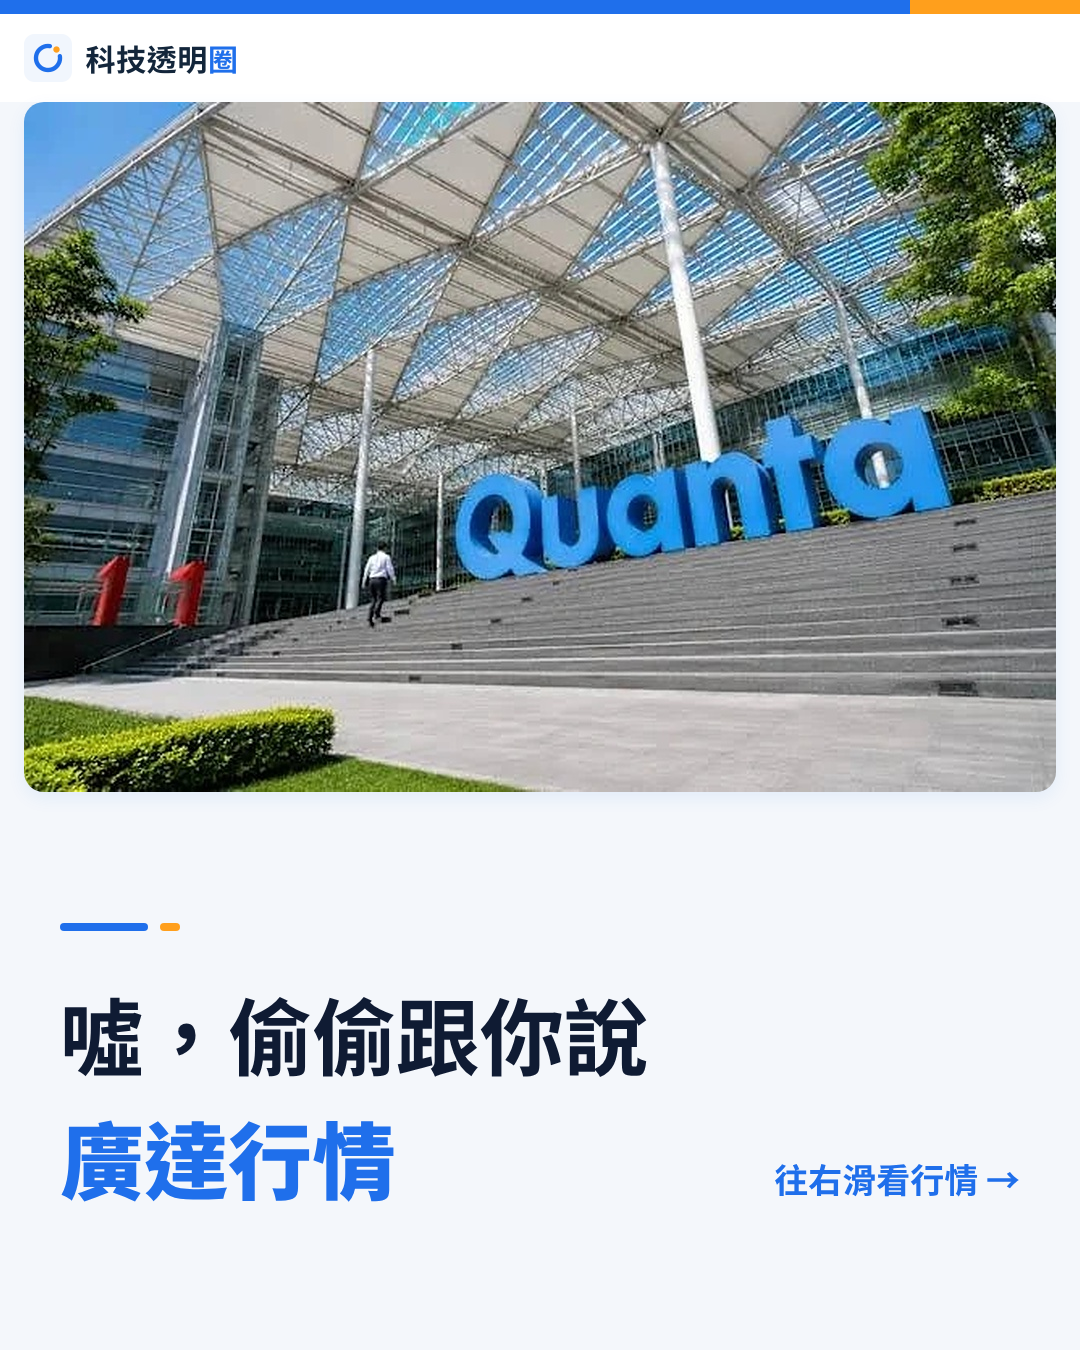
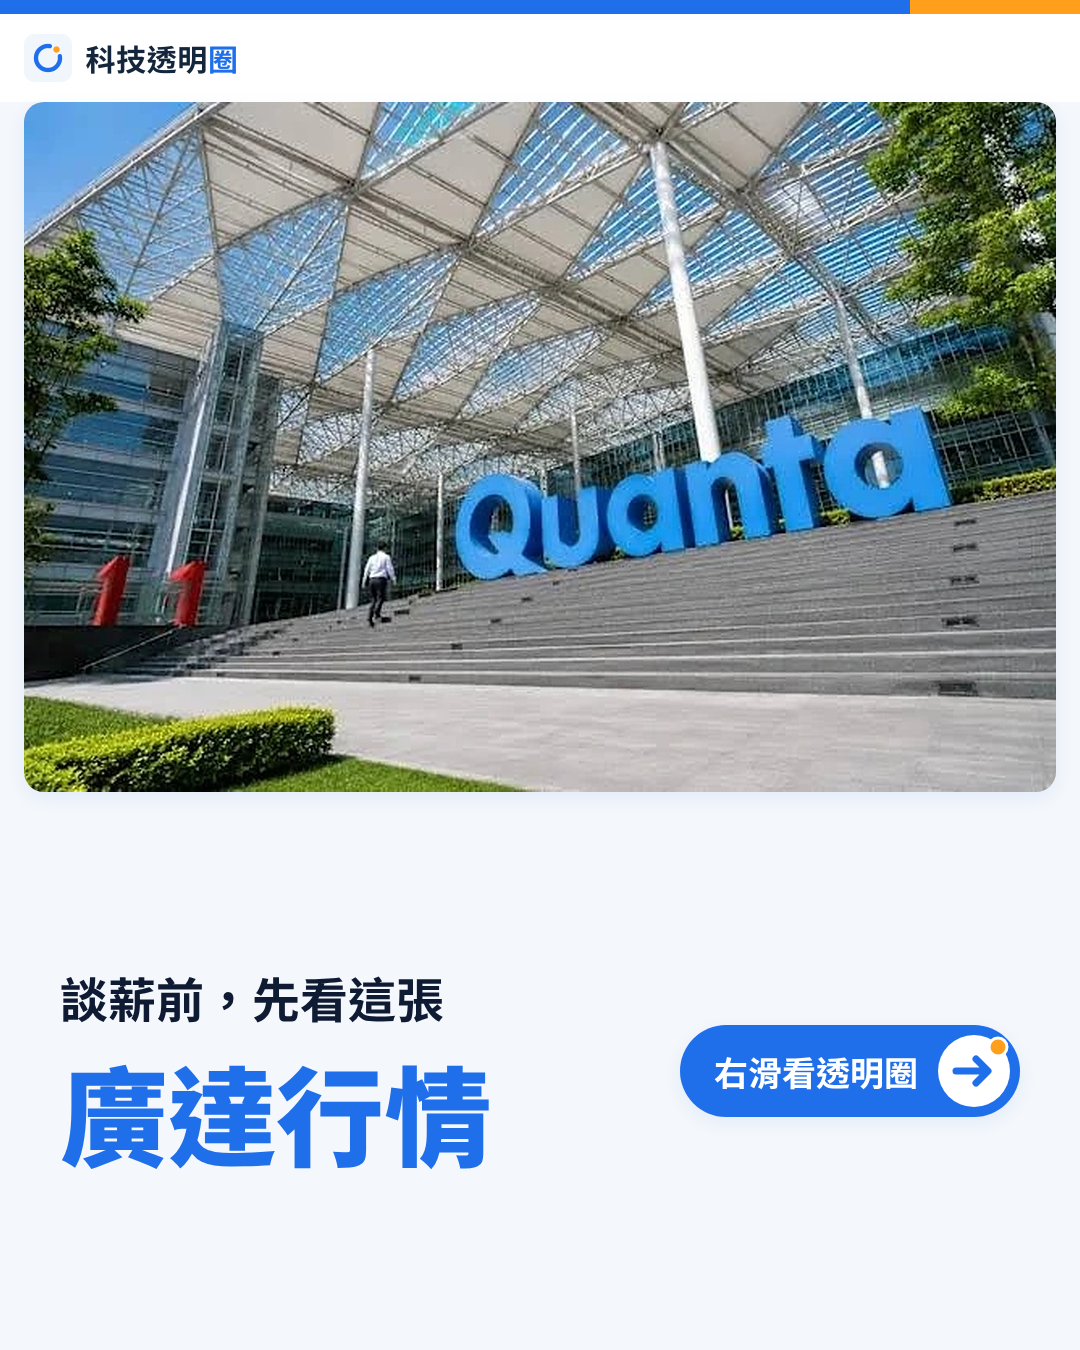
科技透明圈 廣達待遇文：封面加頻道標語＋右滑膠囊鈕、待遇表改台灣地圖＋6 欄（Andy 11-06）
Claude-Session: https://claude.ai/code/session_018gakVRNRsek4G6osuECGNS

Changed region(s): [[0.0611, 0.6844, 0.9472, 0.9022]]

diff --git a/docs/marketing/channels/tc/posts/20261105_quanta/render_quanta.py b/docs/marketing/channels/tc/posts/20261105_quanta/render_quanta.py
@@ -137,35 +137,68 @@ def cover(title, sub, hint, photo, pos="50% 50%"):
 PH = lambda t: f'<span class="ph">{t}</span>'
 DISC = "網友回報，非公司公告・與各公司無合作或授權關係"
 
-# ================= 廣達待遇文（2 頁）：A1 封面＋A2 待遇欄位表 =================
+# ================= 廣達待遇文（2 頁）：A1 封面＋A2 台灣地圖＋待遇表 =================
 NAME = "廣達"
+TAGLINE = os.environ.get("TC_TAGLINE") or "談薪前，先看這張"          # 頻道標語（暫定；Andy 還沒定稿，換字只改這一處，7～10 字都單行）
+COVER_HINT = "右滑看透明圈"
+SECTION_TITLE = "工程師待遇"          # 欄位標題；若文章是特定單位，寫成「廣達 BU9 透明圈」
+HQ_LABEL = "總部：桃園龜山"
 S = {}
-# 2026-11-05 Andy：「下方只需要表示廣達行情 並且嘗試有點偷偷說的感覺標題」→ 兩行標題、第二行瑞士紅，提示與第二行基線對齊靠右；不放副標、不放表情符號
+TW = json.load(open(Path(__file__).resolve().parent / "taiwan_path.json"))   # world-atlas countries-50m（ISC／Natural Earth 公有領域）→ make_taiwan_path.mjs
+
+# ---- 封面：標語＋標題＋「右滑」提示，三者在照片下緣到頁底之間垂直置中 ----
+TAG_PX, TT_PX = 48, 108
+# 提示鈕：藍色膠囊，右端白色圓盤放圓角箭頭（線＋箭頭帽），圓盤右上角一顆橘點（呼應 LOGO 的橘點），不用文字箭頭
+SWIPE = (f'<div class="sw"><span>{COVER_HINT}</span>'
+         f'<svg data-b width="76" height="76" viewBox="0 0 76 76"><circle cx="38" cy="38" r="36" fill="#fff"/>'
+         f'<path d="M20 38 H50 M40 26 L52 38 L40 50" fill="none" stroke="{BLUE}" stroke-width="7" stroke-linecap="round" stroke-linejoin="round"/>'
+         f'<circle cx="62" cy="14" r="9" fill="{ORG}" stroke="#fff" stroke-width="3"/></svg></div>')
+SWIPE_CSS = f"""
+.cv .low{{position:absolute;left:{M_L}px;top:{PIC_TOP+PIC_H}px;width:{W-2*M_L}px;height:{H-PIC_TOP-PIC_H}px;display:flex;align-items:center;justify-content:space-between}}
+.cv .tg{{font-size:{TAG_PX}px;font-weight:700;line-height:64px;margin-bottom:16px;color:{INK};white-space:nowrap}}
+.cv .nm{{font-size:{TT_PX}px;font-weight:900;line-height:132px;color:{BLUE};white-space:nowrap}}
+.cv .sw{{display:flex;align-items:center;gap:18px;height:92px;padding:0 8px 0 34px;border-radius:46px;background:{BLUE};color:#fff;font-size:34px;font-weight:700;white-space:nowrap;box-shadow:{SHADOW}}}
+.cv .sw svg{{display:block}}
+"""
 S["1_cover"] = (f'<div class="cv"><div class="hd"></div><div class="strip"><i></i></div><div class="lg">{OPEN_RING}</div>'
     f'<div class="pic" data-b style="background-image:url({photo_uri_abs(Path(__file__).resolve().parent / "cover_photo.jpg")});background-position:50% 50%"></div>'
-    f'<div class="rl"><b></b><i></i></div><div class="tt" style="line-height:124px"><div>噓，偷偷跟你說</div>'
-    f'<div style="display:flex;justify-content:space-between;align-items:baseline"><span style="color:{BLUE};font-weight:900">{NAME}行情</span>'
-    f'<span class="hint" style="font-size:34px;line-height:44px;white-space:nowrap">往右滑看行情 →</span></div></div></div>')
+    f'<div class="low"><div><div class="tg">{TAGLINE}</div><div class="nm">{NAME}行情</div></div>{SWIPE}</div></div>')
+
+# ---- 待遇表：上半台灣地圖＋總部位置，下半「工程師待遇」6 欄（欄名＋重點值，不放備註） ----
 rows = [
-    ("總部地點", "桃園龜山", "網友提到的地點另有林口、桃園"),
-    ("碩畢月薪", "約 58～69K・中位約 62K", "業內朋友 1 位＋網友 21 筆（2025～2026）對得上<br>網友樣本多未標學歷"),
-    ("年終・分紅", "整包約 18～22 個月", "含底薪年度總額；網友 17 筆，隨單位差很多"),
-    ("升等路徑", "依單位而異", "網友回報近年較難升；調薪幅度各單位不同"),
-    ("加班時數", "網友多回報經常加班", "網友 171 筆（不限職位）58% 選「經常」<br>週工時中位約 48 小時"),
-    ("繁忙程度", "網友普遍回報工時長、壓力大", "隨單位與專案差很多"),
-    ("出差頻率", "時間不定，依客戶與專案", "網友樣本多數未提；少數評價提到赴中國、東南亞廠"),
+    ("碩畢月薪", "約 58～69K・中位約 62K"),
+    ("年終・分紅", "整包約 18～22 個月"),
+    ("升等路徑", "依單位而異"),
+    ("加班時數", "網友多回報經常加班"),
+    ("繁忙程度", "網友普遍回報工時長、壓力大"),
+    ("出差頻率", "時間不定，依客戶與專案"),
 ]
-trs = "".join(f'<div class="rw" style="display:flex;align-items:center;flex:{1.2 if "<br>" in c else 1};border-top:2px solid {LINE}">'
+trs = "".join(f'<div class="rw" style="display:flex;align-items:center;flex:1;border-top:2px solid {LINE}">'
               f'<div class="n" style="width:66px;font-size:32px;color:{BLUE}">{i+1:02d}</div>'
               f'<div style="width:220px;font-size:38px;font-weight:800;white-space:nowrap">{a}</div>'
-              f'<div style="flex:1;min-width:0"><div style="font-size:36px;font-weight:700;line-height:56px;white-space:nowrap">{b}</div>'
-              f'<div style="font-size:26px;line-height:32px;color:{GREY};margin-top:0">{c}</div></div></div>' for i, (a, b, c) in enumerate(rows))
+              f'<div style="flex:1;min-width:0;font-size:36px;font-weight:700;white-space:nowrap">{b}</div></div>' for i, (a, b) in enumerate(rows))
+MAP_W, MAP_H = 980, 496           # 地圖 svg 尺寸（卡片 984x500 扣 2px 邊框；body 左右各 48）
+IS_H = 448                        # 台灣本島高度（寬依比例）
+IS_W = IS_H * TW["w"] / TW["h"]
+IS_X, IS_Y = (MAP_W - IS_W) / 2, (MAP_H - IS_H) / 2   # 本島左上角（置中）
+k = IS_H / TW["h"]
+PX_, PY_ = IS_X + TW["pt"][0] * k, IS_Y + TW["pt"][1] * k   # 龜山點位
+LBL_W, LBL_H = 380, 76
+LBL_X, LBL_Y = 70, PY_ - LBL_H / 2
+MAP_SVG = (f'<svg data-b width="{MAP_W}" height="{MAP_H}" viewBox="0 0 {MAP_W} {MAP_H}" style="display:block">'
+    f'<g transform="translate({IS_X:.1f} {IS_Y:.1f}) scale({k:.5f})"><path d="{TW["d"]}" fill="#D3E2FA" stroke="#fff" stroke-width="{4/k:.1f}" stroke-linejoin="round"/></g>'
+    f'<line x1="{LBL_X+LBL_W}" y1="{PY_:.1f}" x2="{PX_-30:.1f}" y2="{PY_:.1f}" stroke="{BLUE}" stroke-width="3" stroke-dasharray="2 8" stroke-linecap="round"/>'
+    f'<circle cx="{PX_:.1f}" cy="{PY_:.1f}" r="30" fill="#fff" fill-opacity=".7" stroke="{BLUE}" stroke-width="8"/>'
+    f'<circle cx="{PX_+19:.1f}" cy="{PY_-19:.1f}" r="13" fill="{ORG}" stroke="#fff" stroke-width="4"/>'
+    f'<rect x="{LBL_X}" y="{LBL_Y:.1f}" width="{LBL_W}" height="{LBL_H}" rx="38" fill="#fff" stroke="{LINE}" stroke-width="2"/>'
+    f'<text x="{LBL_X+LBL_W/2}" y="{LBL_Y+LBL_H/2+1:.1f}" text-anchor="middle" dominant-baseline="central" font-size="40" font-weight="800" fill="{INK}" font-family="Noto Sans TC">{HQ_LABEL}</text></svg>')
 S["2_fields"] = f"""{top('公司行情', '2 / 2')}
-<div class="body" style="padding-top:32px">
+<div class="body" style="padding-top:28px">
   <div style="display:flex;gap:14px"><span class="tag">{NAME}</span><span class="tag g">代號：肉鬆</span></div>
-  <div style="font-size:68px;font-weight:900;line-height:1.2;margin-top:20px">七個欄位，一次看完</div>
-  <div class="box" style="margin-top:20px;margin-bottom:26px;flex:1;display:flex;flex-direction:column;min-height:0">{trs}</div>
-</div>{ft(DISC, "")}"""
+  <div class="card" style="margin-top:20px;height:{MAP_H+4}px;background:{TINT};border-color:#CFE0FA;overflow:hidden;flex:none">{MAP_SVG}</div>
+  <div style="font-size:58px;font-weight:900;line-height:80px;margin-top:20px;flex:none">{SECTION_TITLE}</div>
+  <div class="box" style="margin-top:8px;margin-bottom:36px;flex:1;display:flex;flex-direction:column;min-height:0">{trs}</div>
+</div>"""
 
 # ---------------- 轉圖 + 重疊檢查 ----------------
 JS = """() => {
@@ -187,14 +220,14 @@ JS = """() => {
  const small=[...document.querySelectorAll('body *')].filter(e=>[...e.childNodes].some(n=>n.nodeType===3&&n.textContent.trim())&&parseFloat(getComputedStyle(e).fontSize)<24).map(e=>e.textContent.trim().slice(0,10));
  const clip=[...document.querySelectorAll('body *')].filter(e=>e.scrollWidth>e.clientWidth+1&&getComputedStyle(e).overflow!=='visible'||(e.classList.contains('rw')&&e.scrollHeight>e.clientHeight+1)).map(e=>e.textContent.trim().slice(0,10));
  const wide=[...document.querySelectorAll('.rw div div')].filter(e=>e.getBoundingClientRect().right>1020+1).map(e=>e.textContent.slice(0,10));
- return {bad,oob,ovf,small,clip,wide,n:rects.length};
+ return {bad,oob,ovf,small,clip,wide,n:rects.length,clipdbg:[...document.querySelectorAll('body *')].filter(e=>e.scrollWidth>e.clientWidth+1&&getComputedStyle(e).overflow!=='visible').map(e=>[e.tagName,e.scrollWidth,e.clientWidth])};
 }"""
 
 report = {}
 with sync_playwright() as p:
     b = p.chromium.launch(executable_path="/opt/pw-browsers/chromium")
     for name, html in S.items():
-        doc = f'<!doctype html><html><head><meta charset="utf-8">{FONTCSS}<style>{CSS}{COVER_CSS}</style></head><body>{html}</body></html>'
+        doc = f'<!doctype html><html><head><meta charset="utf-8">{FONTCSS}<style>{CSS}{COVER_CSS}{SWIPE_CSS}</style></head><body>{html}</body></html>'
         f = OUT / f"_{name}.html"; f.write_text(doc, encoding="utf8")
         pg = b.new_page(viewport={"width": W, "height": H}, device_scale_factor=1)
         pg.goto(f"file://{f}", wait_until="networkidle"); pg.wait_for_timeout(600)

diff --git a/docs/marketing/channels/tc/posts/20261105_quanta/image_sources.md b/docs/marketing/channels/tc/posts/20261105_quanta/image_sources.md
@@ -9,3 +9,7 @@
 - 11-06 起封面改用 Andy 提供的廣達總部照，取代原 Wikimedia 上海廠區照（CC BY-SA、非桃園總部），相關授權句與「非桃園總部」說明已刪。
 - 照片解析度僅 640×427，放大約 1.6 倍，略軟；若 Andy 找到原始頁面的大圖，換檔重出即可。
 - 封面不放我方公司 LOGO；照片裡建築上的「Quanta」立體字是實景，不算我方放的 LOGO。
+
+## 2026-11-06 第 2 張台灣地圖
+- 本島輪廓：npm 套件 `world-atlas@2.0.2`（ISC 授權，© Michael Bostock；資料來自 Natural Earth，公有領域）的 `countries-50m.json`，取 Taiwan 的本島多邊形，用 `make_taiwan_path.mjs`（topojson-client＋d3-geo 麥卡托）轉成 `taiwan_path.json`。非 AI 繪製、非手描。
+- 總部點位：桃園龜山，北緯 25.03、東經 121.36（同一投影算出）。
